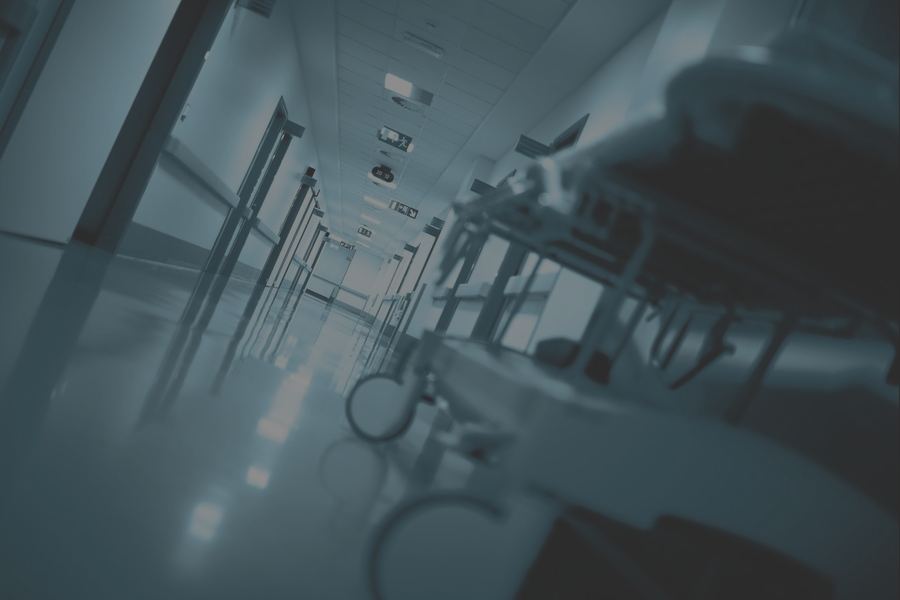
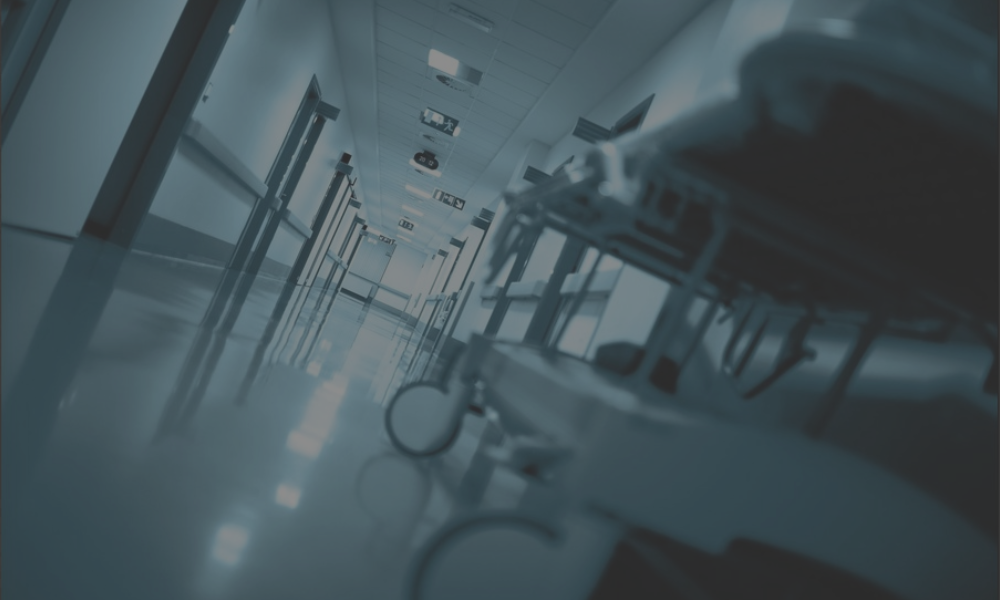
modifiche

diff --git a/src/main/java/uniba/it/gioco/gui/JPanelMostraPartite.java b/src/main/java/uniba/it/gioco/gui/JPanelMostraPartite.java
@@ -7,6 +7,7 @@ import java.sql.Timestamp;
 import java.text.SimpleDateFormat;
 import java.util.logging.Level;
 import java.util.logging.Logger;
+import javax.swing.ImageIcon;
 import javax.swing.JOptionPane;
 import javax.swing.table.DefaultTableModel;
 import uniba.it.gioco.GameModel;
@@ -27,6 +28,11 @@ public class JPanelMostraPartite extends javax.swing.JPanel {
         this.jframeMain = jframeMain;
         initComponents();
         prelievoDati();
+        init();
+    }
+    private void init(){
+          ImageIcon imageIcon = new ImageIcon("res/sfondomenu2.png");
+        jLabel1.setIcon(imageIcon);
     }
 
     private void prelievoDati() {
@@ -87,6 +93,9 @@ public class JPanelMostraPartite extends javax.swing.JPanel {
         jButtonCarica = new javax.swing.JButton();
         jButtonIndietro = new javax.swing.JButton();
         jButtonCancella1 = new javax.swing.JButton();
+        jLabel1 = new javax.swing.JLabel();
+
+        setLayout(new org.netbeans.lib.awtextra.AbsoluteLayout());
 
         jTablePartite.setFont(new java.awt.Font("SimSun", 1, 12)); // NOI18N
         jTablePartite.setModel(new javax.swing.table.DefaultTableModel(
@@ -122,6 +131,8 @@ public class JPanelMostraPartite extends javax.swing.JPanel {
             jTablePartite.getColumnModel().getColumn(2).setResizable(false);
         }
 
+        add(jScrollPane1, new org.netbeans.lib.awtextra.AbsoluteConstraints(198, 97, 645, 314));
+
         jButtonCarica.setFont(new java.awt.Font("SimSun", 1, 12)); // NOI18N
         jButtonCarica.setText("Carica");
         jButtonCarica.setPreferredSize(new java.awt.Dimension(110, 32));
@@ -130,6 +141,7 @@ public class JPanelMostraPartite extends javax.swing.JPanel {
                 jButtonCaricaActionPerformed(evt);
             }
         });
+        add(jButtonCarica, new org.netbeans.lib.awtextra.AbsoluteConstraints(733, 429, -1, -1));
 
         jButtonIndietro.setFont(new java.awt.Font("SimSun", 1, 12)); // NOI18N
         jButtonIndietro.setText("Indietro");
@@ -139,6 +151,7 @@ public class JPanelMostraPartite extends javax.swing.JPanel {
                 jButtonIndietroActionPerformed(evt);
             }
         });
+        add(jButtonIndietro, new org.netbeans.lib.awtextra.AbsoluteConstraints(501, 429, -1, -1));
 
         jButtonCancella1.setFont(new java.awt.Font("SimSun", 1, 12)); // NOI18N
         jButtonCancella1.setText("Cancella");
@@ -148,35 +161,8 @@ public class JPanelMostraPartite extends javax.swing.JPanel {
                 jButtonCancella1ActionPerformed(evt);
             }
         });
-
-        javax.swing.GroupLayout layout = new javax.swing.GroupLayout(this);
-        this.setLayout(layout);
-        layout.setHorizontalGroup(
-            layout.createParallelGroup(javax.swing.GroupLayout.Alignment.LEADING)
-            .addGroup(layout.createSequentialGroup()
-                .addContainerGap(202, Short.MAX_VALUE)
-                .addGroup(layout.createParallelGroup(javax.swing.GroupLayout.Alignment.TRAILING)
-                    .addGroup(layout.createSequentialGroup()
-                        .addComponent(jButtonIndietro, javax.swing.GroupLayout.PREFERRED_SIZE, javax.swing.GroupLayout.DEFAULT_SIZE, javax.swing.GroupLayout.PREFERRED_SIZE)
-                        .addPreferredGap(javax.swing.LayoutStyle.ComponentPlacement.RELATED)
-                        .addComponent(jButtonCancella1, javax.swing.GroupLayout.PREFERRED_SIZE, javax.swing.GroupLayout.DEFAULT_SIZE, javax.swing.GroupLayout.PREFERRED_SIZE)
-                        .addPreferredGap(javax.swing.LayoutStyle.ComponentPlacement.RELATED)
-                        .addComponent(jButtonCarica, javax.swing.GroupLayout.PREFERRED_SIZE, javax.swing.GroupLayout.DEFAULT_SIZE, javax.swing.GroupLayout.PREFERRED_SIZE))
-                    .addComponent(jScrollPane1, javax.swing.GroupLayout.PREFERRED_SIZE, 645, javax.swing.GroupLayout.PREFERRED_SIZE))
-                .addGap(157, 157, 157))
-        );
-        layout.setVerticalGroup(
-            layout.createParallelGroup(javax.swing.GroupLayout.Alignment.LEADING)
-            .addGroup(layout.createSequentialGroup()
-                .addGap(97, 97, 97)
-                .addComponent(jScrollPane1, javax.swing.GroupLayout.PREFERRED_SIZE, 314, javax.swing.GroupLayout.PREFERRED_SIZE)
-                .addGap(18, 18, 18)
-                .addGroup(layout.createParallelGroup(javax.swing.GroupLayout.Alignment.BASELINE)
-                    .addComponent(jButtonCarica, javax.swing.GroupLayout.PREFERRED_SIZE, javax.swing.GroupLayout.DEFAULT_SIZE, javax.swing.GroupLayout.PREFERRED_SIZE)
-                    .addComponent(jButtonCancella1, javax.swing.GroupLayout.PREFERRED_SIZE, javax.swing.GroupLayout.DEFAULT_SIZE, javax.swing.GroupLayout.PREFERRED_SIZE)
-                    .addComponent(jButtonIndietro, javax.swing.GroupLayout.PREFERRED_SIZE, javax.swing.GroupLayout.DEFAULT_SIZE, javax.swing.GroupLayout.PREFERRED_SIZE))
-                .addContainerGap(147, Short.MAX_VALUE))
-        );
+        add(jButtonCancella1, new org.netbeans.lib.awtextra.AbsoluteConstraints(617, 429, -1, -1));
+        add(jLabel1, new org.netbeans.lib.awtextra.AbsoluteConstraints(0, 0, 1000, 600));
     }// </editor-fold>//GEN-END:initComponents
 
     private void jButtonIndietroActionPerformed(java.awt.event.ActionEvent evt) {//GEN-FIRST:event_jButtonIndietroActionPerformed
@@ -241,6 +227,7 @@ public class JPanelMostraPartite extends javax.swing.JPanel {
     private javax.swing.JButton jButtonCancella1;
     private javax.swing.JButton jButtonCarica;
     private javax.swing.JButton jButtonIndietro;
+    private javax.swing.JLabel jLabel1;
     private javax.swing.JScrollPane jScrollPane1;
     private javax.swing.JTable jTablePartite;
     // End of variables declaration//GEN-END:variables

diff --git a/src/main/java/uniba/it/gioco/gui/JPanelNuovoGioco.java b/src/main/java/uniba/it/gioco/gui/JPanelNuovoGioco.java
@@ -4,6 +4,7 @@ import java.awt.event.KeyEvent;
 import java.io.IOException;
 import java.util.logging.Level;
 import java.util.logging.Logger;
+import javax.swing.ImageIcon;
 import javax.swing.JOptionPane;
 import uniba.it.gioco.GameModel;
 import uniba.it.gioco.database.InitDatabase;
@@ -17,6 +18,11 @@ public class JPanelNuovoGioco extends javax.swing.JPanel {
         this.jframeMain = jframeMain;
         this.gameModel = gameModel;
         initComponents();
+        init();
+    }
+    private void init(){
+          ImageIcon imageIcon = new ImageIcon("res/sfondomenu2.png");
+        jLabel1.setIcon(imageIcon);
     }
 
     /**
@@ -32,6 +38,9 @@ public class JPanelNuovoGioco extends javax.swing.JPanel {
         indietro = new javax.swing.JButton();
         jNickname = new javax.swing.JTextField();
         nicknameLabel = new javax.swing.JLabel();
+        jLabel1 = new javax.swing.JLabel();
+
+        setLayout(new org.netbeans.lib.awtextra.AbsoluteLayout());
 
         conferma.setFont(new java.awt.Font("SimSun", 1, 18)); // NOI18N
         conferma.setText("Conferma");
@@ -40,6 +49,7 @@ public class JPanelNuovoGioco extends javax.swing.JPanel {
                 confermaActionPerformed(evt);
             }
         });
+        add(conferma, new org.netbeans.lib.awtextra.AbsoluteConstraints(533, 373, 165, 71));
 
         indietro.setFont(new java.awt.Font("SimSun", 1, 18)); // NOI18N
         indietro.setText("Torna indietro");
@@ -48,6 +58,7 @@ public class JPanelNuovoGioco extends javax.swing.JPanel {
                 indietroActionPerformed(evt);
             }
         });
+        add(indietro, new org.netbeans.lib.awtextra.AbsoluteConstraints(324, 373, -1, 72));
 
         jNickname.addActionListener(new java.awt.event.ActionListener() {
             public void actionPerformed(java.awt.event.ActionEvent evt) {
@@ -59,38 +70,12 @@ public class JPanelNuovoGioco extends javax.swing.JPanel {
                 jNicknameKeyPressed(evt);
             }
         });
+        add(jNickname, new org.netbeans.lib.awtextra.AbsoluteConstraints(324, 197, 374, 51));
 
         nicknameLabel.setFont(new java.awt.Font("SimSun", 1, 18)); // NOI18N
         nicknameLabel.setText("Inserire il nickname");
-
-        javax.swing.GroupLayout layout = new javax.swing.GroupLayout(this);
-        this.setLayout(layout);
-        layout.setHorizontalGroup(
-            layout.createParallelGroup(javax.swing.GroupLayout.Alignment.LEADING)
-            .addGroup(javax.swing.GroupLayout.Alignment.TRAILING, layout.createSequentialGroup()
-                .addContainerGap(324, Short.MAX_VALUE)
-                .addGroup(layout.createParallelGroup(javax.swing.GroupLayout.Alignment.TRAILING, false)
-                    .addGroup(layout.createSequentialGroup()
-                        .addComponent(indietro)
-                        .addPreferredGap(javax.swing.LayoutStyle.ComponentPlacement.RELATED, javax.swing.GroupLayout.DEFAULT_SIZE, Short.MAX_VALUE)
-                        .addComponent(conferma, javax.swing.GroupLayout.PREFERRED_SIZE, 165, javax.swing.GroupLayout.PREFERRED_SIZE))
-                    .addComponent(jNickname, javax.swing.GroupLayout.PREFERRED_SIZE, 374, javax.swing.GroupLayout.PREFERRED_SIZE)
-                    .addComponent(nicknameLabel, javax.swing.GroupLayout.PREFERRED_SIZE, 374, javax.swing.GroupLayout.PREFERRED_SIZE))
-                .addGap(302, 302, 302))
-        );
-        layout.setVerticalGroup(
-            layout.createParallelGroup(javax.swing.GroupLayout.Alignment.LEADING)
-            .addGroup(javax.swing.GroupLayout.Alignment.TRAILING, layout.createSequentialGroup()
-                .addGap(162, 162, 162)
-                .addComponent(nicknameLabel, javax.swing.GroupLayout.PREFERRED_SIZE, 29, javax.swing.GroupLayout.PREFERRED_SIZE)
-                .addPreferredGap(javax.swing.LayoutStyle.ComponentPlacement.RELATED)
-                .addComponent(jNickname, javax.swing.GroupLayout.PREFERRED_SIZE, 51, javax.swing.GroupLayout.PREFERRED_SIZE)
-                .addGap(125, 125, 125)
-                .addGroup(layout.createParallelGroup(javax.swing.GroupLayout.Alignment.BASELINE)
-                    .addComponent(conferma, javax.swing.GroupLayout.PREFERRED_SIZE, 71, javax.swing.GroupLayout.PREFERRED_SIZE)
-                    .addComponent(indietro, javax.swing.GroupLayout.PREFERRED_SIZE, 72, javax.swing.GroupLayout.PREFERRED_SIZE))
-                .addContainerGap(155, Short.MAX_VALUE))
-        );
+        add(nicknameLabel, new org.netbeans.lib.awtextra.AbsoluteConstraints(324, 162, 374, 29));
+        add(jLabel1, new org.netbeans.lib.awtextra.AbsoluteConstraints(0, 0, 1000, 600));
     }// </editor-fold>//GEN-END:initComponents
 
     private void indietroActionPerformed(java.awt.event.ActionEvent evt) {//GEN-FIRST:event_indietroActionPerformed
@@ -174,6 +159,7 @@ public class JPanelNuovoGioco extends javax.swing.JPanel {
     // Variables declaration - do not modify//GEN-BEGIN:variables
     private javax.swing.JButton conferma;
     private javax.swing.JButton indietro;
+    private javax.swing.JLabel jLabel1;
     private javax.swing.JTextField jNickname;
     private javax.swing.JLabel nicknameLabel;
     // End of variables declaration//GEN-END:variables

diff --git a/src/main/java/uniba/it/gioco/gui/JPanelMenu.java b/src/main/java/uniba/it/gioco/gui/JPanelMenu.java
@@ -16,27 +16,12 @@ public class JPanelMenu extends javax.swing.JPanel {
         this.gameModel = gameModel;
         this.jframeMain = jframeMain;
         initComponents();
-        init();
+       init();
     }
-    
-  private void init() {
-    // Ottieni le dimensioni del frame
-    int frameWidth = getWidth();
-    int frameHeight = getHeight();
-    
-    // Carica l'icona dell'immagine
-    ImageIcon imageIcon = new ImageIcon("res/sfondomenu2.png");
-    
-    // Ridimensiona l'icona per adattarla alle dimensioni del frame
-    Image image = imageIcon.getImage().getScaledInstance(1000, 600, Image.SCALE_SMOOTH);
-    
-    // Crea un nuovo ImageIcon con l'immagine ridimensionata
-    ImageIcon scaledIcon = new ImageIcon(image);
-    
-    // Imposta l'icona nel JLabel
-    jLabel1.setIcon(scaledIcon);
+private void init(){
+      ImageIcon imageIcon = new ImageIcon("res/sfondomenu2.png");
+      jLabel1.setIcon(imageIcon);
 }
-
 
     /**
      * This method is called from within the constructor to initialize the form.
